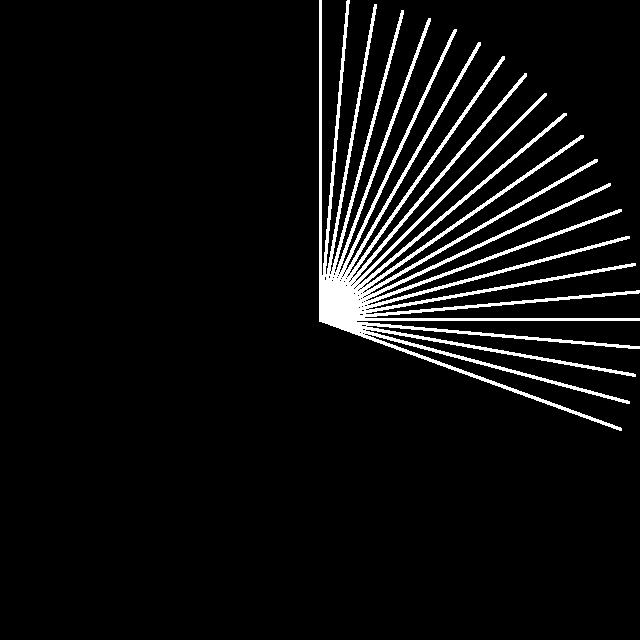
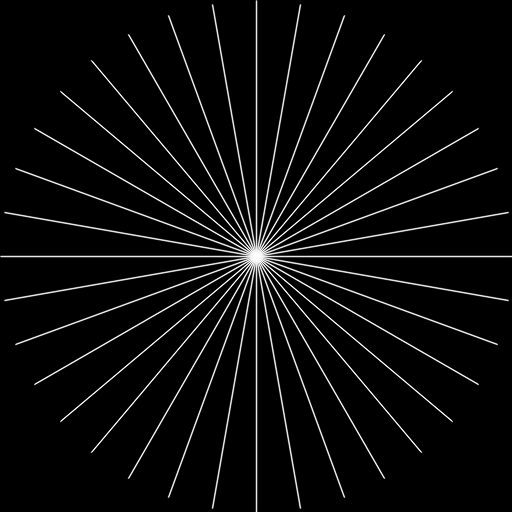
6.4 done.

diff --git a/tex/sections/materials-and-methods/subsections/no-reference-image-quality-assessment.tex b/tex/sections/materials-and-methods/subsections/no-reference-image-quality-assessment.tex
@@ -7,7 +7,9 @@ The next step is to devise a quantitative representation of sharpness for each i
   \label{fig:pipeline}
 \end{figure}
 
-First, the image undergoes a grayscale conversion with the luminance method \cite{ponti2016image} - a 
+The DFT was chosen as the basis for the method after tests with the techniques in the literature review, but it was also claimed within the SCG group that it is a simple and robust way to describe image sharpness in terms of a frequency profile. Some tests were done with the discrete wavelet transform, but the response was similar to the DFT. Similarly, after exploring the mathematical properties of the Fourier transform and also the other mathematical functions employed, i.e. the logarithm and the modulus of a complex number, the final feature vector was proven to be a distribution and could be mapped onto a probability space. This discovery brought the idea of statistics to the scope of this work, and by means of visualization techniques such as 2D and 3D plots, it was possible to notice the pattern of blurred and sharp images in the resulting distribution. The need of a statistical property capable of quantifying such pattern and allowing the method to segregate the blurred and sharp images motivated the research for techniques that deal with the shape of a distribution. The simplest tools were kurtosis, the interquartile range and the $z$-score, which were empirically proven to be accurate in the proposed setup.
+
+First, each image undergoes a grayscale conversion with the luminance method \cite{ponti2016image} - a 
 linear combination of the three channels of a RGB image, as shown in the matrix equation given by
 
 \begin{equation}
@@ -15,16 +17,9 @@ linear combination of the three channels of a RGB image, as shown in the matrix 
     I_{luminance} = 0.299R + 0.587G + 0.114B,
 \end{equation}
 
-\noindent where $I_{luminance}$ is the matrix that represents the grayscale converted image, $R$, $G$ and $B$ represent the matrices of the red, green and blue channels, respectively. Next, the resolution of each grayscale image is reduced by half, from 2560 $\times$ 1920 to 1280 $\times$ 960. This provides shorter computational times. We empirically observed that  reduction in resolution did not compromise the results. We employed a bilinear interpolation that uses the four nearest neighbors to estimate the intensity at a given location \cite{gonzalez2018digital}, described as
+\noindent where $I_{luminance}$ is the matrix that represents the grayscale converted image, $R$, $G$ and $B$ represent the matrices of the red, green and blue channels, respectively. 
 
-\begin{equation}
-\label{eqn:bilinear_interpolation}
-I_{resized}(x,y) = ax + by + cxy + d.
-\end{equation}
-
-The CLAHE algorithm is then applied to deliver a more uniform image to the Fourier Transform. This is necessary as microscopy images are influenced by illumination conditions, the focus adjustment itself and also physical properties of the transmitted or reflected light.
-
-Next, the DFT is applied to all images and the resulting spectra are analyzed. The Fourier spectrum of a two-dimensional signal such as an image is a matrix with complex coefficients and zeros on each of its four corners and carries information about frequency bands of the image, characterized as a distribution. Our approach requires a shift between the first and third quadrants, and also the second and the fourth quadrants, to the center of the matrix. The unshifted and shifted Fourier spectrum of an grayscale airplane test image are shown in Figures \ref{fig:fourier_spectrum}.(c) and \ref{fig:fourier_spectrum}.(d), respectively. 
+The CLAHE algorithm is then applied to deliver a more uniform image to the Fourier Transform. This is necessary as microscopy images are influenced by illumination conditions, the focus adjustment itself and also physical properties of the transmitted or reflected light. Next, the DFT is applied to all images and the resulting spectra are analyzed. The Fourier spectrum of a two-dimensional signal such as an image is a matrix with complex coefficients and zeros on each of its four corners and carries information about frequency bands of the image, characterized as a distribution. Our approach requires a shift between the first and third quadrants, and also the second and the fourth quadrants, to the center of the matrix. The unshifted and shifted Fourier spectrum of an grayscale airplane test image are shown in Figures \ref{fig:fourier_spectrum}.(c) and \ref{fig:fourier_spectrum}.(d), respectively. 
 
 \begin{figure}[ht]
 	\centering
@@ -37,9 +32,7 @@ Next, the DFT is applied to all images and the resulting spectra are analyzed. T
 
 The frequency information may be retrieved from the shifted Fourier spectrum by means of concentric circles drawn over it in the form of masks. Theoretically, the number of masks that may be applied to the spectra is infinite, but the discrete nature of images renders a finite number of masks. Let the matrix of DFT coefficients be graphically represented in Figure~\ref{fig:fourier_spectrum}.(e) and be mathematically denoted as a square of side $L = \max{(m,n)}$, $k = L / 2$ be the maximum radius value for circles within the square and $C = (k,k)$ be the center of the infinite set of concentric circles inscribed in the square. Circles with small radii comprise low-frequency information whereas large radii values cover high-frequency coefficients.
 
-Taking into account the pixel resolution of the input images, it makes sense to sample the information, otherwise, the computational complexity and running times of the algorithm for one image alone would be impractical. Moreover, it is also unrealistic to evaluate every area under each concentric circle to retrieve the frequency content of an image; there is also no standard discrete amount of frequency bands to be evaluated.
-
-Therefore, we drove our efforts to comprise as much information about each frequency band as possible and explored the fact that the Fourier spectrum of a real function such as an image is even, i.e. symmetric concerning its origin. Instead of the pure complex coefficients, we represent the Fourier spectrum by the magnitude of its coefficients, given by
+Taking into account the pixel resolution of the input images, it makes sense to sample the information, otherwise, the computational complexity and running times of the algorithm for one image alone would be impractical. Moreover, it is also unrealistic to evaluate every area under each concentric circle to retrieve the frequency content of an image; there is also no standard discrete amount of frequency bands to be evaluated. Therefore, we drove our efforts to comprise as much information about each frequency band as possible and explored the fact that the Fourier spectrum of a real function such as an image is even, i.e. symmetric concerning its origin. Instead of the pure complex coefficients, we represent the Fourier spectrum by the magnitude of its coefficients, given by
 
 \begin{equation}
 \label{eqn:magnitude_of_DFT}
@@ -52,7 +45,7 @@ K(m,n) =
     \right)},
 \end{equation}
 
-\noindent where $\hat{g}(m,n)$ are the complex Fourier coefficients of an image $g(x,y)$. We propose to sample the spectrum by means of radial lines as masks, i.e. white antialiased lines are drawn over a zero-valued matrix of dimensions 1280 $\times$ 960, the same dimensions of the Fourier spectrum of the reduced image, which are then element-wise multiplied by the spectrum. The lines are created from the $(x_{c},y_{c})$ center of the spectrum to points in an approximate radial position, which is calculated by
+\noindent where $\hat{g}(m,n)$ are the complex Fourier coefficients of an image $g(x,y)$. We propose to sample the spectrum by means of radial lines as masks, i.e. white antialiased lines are drawn over a zero-valued matrix with the same dimensions as the Fourier spectrum of the image, which are then element-wise multiplied by the spectrum. The lines are created from the $(x_{c},y_{c})$ center of the spectrum to points in an approximate radial position, which is calculated by
 
 \begin{equation}
 \label{eqn:points_on_radii}
@@ -71,7 +64,7 @@ P(x,y) =
 a_{j} : a_{j} = 
 \frac{j \pi}{180}
 \right\}
-&&  j = \{0,5,...,100\}.
+&&  j = \{0,10,...,360\}.
 \end{align}
 
 Equation
@@ -79,11 +72,11 @@ Equation
 floating-point ordered pair, rounded to the nearest integer value in order to represent a location in the spectrum. The
 antialiased lines are drawn with a Gaussian filtering process. After all the lines have been generated, the mask is similar to what is shown in Figure~\ref{fig:radial_masks}:
 
-\begin{figure}[ht]
+\begin{figure}[htb]
 	\centering
 	\caption{Final mask of antialised radial lines to sample the Fourier spectrum.}
 	\label{fig:radial_masks}
-	\includegraphics[scale=0.5]{images/radial_masks.png}
+	\includegraphics[scale=0.8]{images/radial_masks.png}
 	\centering
 	\fautor
 \end{figure}
@@ -98,13 +91,35 @@ T(x_{i}) = \frac{x_{i}}{\sum_{j=0}^{n-1}x_{j}}
 &&  i = \{0,1,...,n-1\},
 \end{align}
 
-\noindent where each $x_{i}$ is a value of the descriptor which will be mapped onto a probability. Note that each feature vector after the sampling process is a distribution in the scope of the Distribution Theory, i.e. a continuous linear functional defined on a space of smooth (functions with continuous derivatives up to some desired order over some domain \cite{weisstein2020smooth}) and compact supported (the functions yields zero outside of a closed and bounded set \cite{weisstein2020compact}) functions, with values in the range $[0,\infty)$. Therefore, it makes sense to apply the operator that maps it to a probability. This proposition was proved in \autoref{chapter:definitions-and-proofs}, which summarizes several definitions from Mathematical Analysis, Measure Theory and Distribution Theory required for the proof.
+\noindent where each $x_{i}$ is a value of the descriptor which will be mapped onto a probability. Note that each feature vector after the sampling process is a distribution in the scope of the Distribution Theory, i.e. a continuous linear functional defined on a space of smooth (functions with continuous derivatives up to some desired order over some domain \cite{weisstein2020smooth}) and compact supported (the functions yields zero outside of a closed and bounded set \cite{weisstein2020compact}) functions, with values in the range $[0,\infty)$. Therefore, it makes sense to apply the operator that maps it to a probability. This proposition was proved in \autoref{chapter:definitions-and-proofs}, which summarizes several definitions from Mathematical Analysis, Measure Theory and Distribution Theory required for the proof. The shape of the frequency distribution represented by each descriptor may vary according to the contents of the image, i.e. lines, circles, edges or complex textures, but it possesses a common representation, as shown in \autoref{fig:descriptor} for the 
+``1600'' image in the CSIQ database. The black line represents a sharp image (without any degree of Gaussian blur) and the blue line represents the blurriest sample of the ``1600'' subset.
 
-Information embedded in the low-frequency components of each feature vector corresponds to the Dirac delta distribution within the PSF of the microscope and should be discarded since it is equal to all images and does not resemble blur information; the removal should be done with caution so that the remaining information is enough to represent the blur profile of the image and allow the further selection by the image quality metric. An optimal threshold should be calculated for ``cropping'' the data, i.e. only a subset of it will represent the sharpness information. The threshold is chosen to maximize the difference between the maximum and the minimum among a set of kurtosis values of each feature vector.
+\begin{figure}[htb]
+	\centering
+	\caption{Common shape of the descriptors right after computation.}
+	\label{fig:descriptor}
+	\includegraphics[width=\textwidth, height=12cm, trim = 0cm 0cm 0cm 0.3cm, clip]{images/descriptor.png}
+	\centering
+	\fautor
+\end{figure}
+
+Information embedded in the low-frequency components of each feature vector corresponds to the Dirac delta distribution within the PSF of the microscope and should be discarded since it is equal to all images and does not resemble blur information; the removal should be done with caution so that the remaining information is enough to represent the blur profile of the image and allow the further selection by the image quality metric. An optimal threshold should be calculated for ``cropping'' the data, i.e. only a subset of it will represent the sharpness information. The threshold is chosen to maximize the range of a set of kurtosis values for each feature vector.
+
+Consequently, the data presented by \autoref{fig:descriptor} provides an overview of the distribution of frequencies, but it does not depict distinguishable differences between a sharp and a blurred image. However, by maintaining the range of values, selecting a subset of both sharp and blurred feature vectors (in this case, the dimensions of the original image are $512 \times 512$ and the feature vectors are of length 592) which starts at the position zero and ends at 100, and finally plotting both subsets, it is possible to notice a difference between the graphs. \autoref{fig:low_frequencies} shows that the blue line (the blurred image) contains larger values within the $[0,20]$ interval in the $x$ axis in comparison to the black line (the sharp image), providing less 
+``peakedness''  to the distribution - which translates itself as lower kurtosis values.
+
+\begin{figure}[htb]
+	\centering
+	\caption{Low-frequency profiles of a sharp (black line) and a blurry (blue line) image.}
+	\label{fig:low_frequencies}
+	\includegraphics[scale=2.2, trim = 0 0.3cm 0 0.4cm, clip]{images/low_frequencies.png}
+	\centering
+	\fautor
+\end{figure}
 
 The array of kurtosis for every crop size is computed as follows. The crop size initializes as zero and is used to compute the kurtosis of the entire set $\{x_{1},x_{2},...,x_{n}\}$ of all descriptors. The crop size is then incremented by 1, yielding the subset $\{x_{2},x_{3},...,x_{n}\}$. This process is done until the kurtosis for all crop sizes of the feature vectors is computed. Algorithm \ref{alg:kurtosis_array} summarizes the computation of kurtosis for all crop sizes:
 
-\begin{algorithm}[H]
+\begin{algorithm}[htb]
 	\caption{Kurtosis computation}
 	\label{alg:kurtosis_array}
 	\begin{algorithmic}[1]
@@ -176,4 +191,6 @@ The array of kurtosis for every crop size is computed as follows. The crop size 
 	\end{algorithmic}
 \end{algorithm}
 
-The low-frequency is discarded in each feature vector up to the optimal threshold, and the IQR measure is computed for all of them. In this work, the IQR value of the feature vector of an image corresponds to the amount of details, i.e. high-frequency content on it: the higher the IQR value, the sharper the image is. Finally, an estimate of the subset of images that is eligible for the fusion process is then obtained by the $z$-score transformation by choosing the images that locate at one or more standard deviation units away from the mean.
+The low-frequency is discarded in each feature vector up to the optimal threshold, and a final kurtosis value is computed for all of them. In this work, such final kurtosis value of each feature vector of an image corresponds to the amount of details, i.e. high-frequency content on it: the higher the kurtosis value, the sharper the image is. Finally, an estimate of the subset of images that is eligible for the fusion process is then obtained by the $z$-score transformation by choosing the images that locate at one or more standard deviation units away from the mean.
+
+% IQR measure is computed for all of them. In this work, the IQR value of the feature vector of an image corresponds to the amount of details, i.e. high-frequency content on it: the higher the IQR value, the sharper the image is. Finally, an estimate of the subset of images that is eligible for the fusion process is then obtained by the $z$-score transformation by choosing the images that locate at one or more standard deviation units away from the mean.

diff --git a/tex/sections/materials-and-methods/subsections/datasets.tex b/tex/sections/materials-and-methods/subsections/datasets.tex
@@ -13,72 +13,80 @@ A shared feature among the species \textit{Callisia repens}, \textit{Tradescanti
 	\fautor
 \end{figure}
 
+\subsection{Acquisition and Usage Protocols}
+
 We will refer to the datasets as \textit{Callisia}, \textit{Tradescantia} and \textit{Cthenante} for notation simplicity. The \textit{Callisia} and \textit{Tradescantia} datasets were acquired with the z-stacking method in the SteREO Discovery.v20 microscope, whereas the \textit{Cthenante} dataset was acquired with the AxioLab A1 microscope. The workstation was connected to the microscopes by means of the ZEISS Axiovision version 4.8 software package. The z-stacks were manually built, i.e. the axial location of the objective was manually changed.
 
-The SteREO Discovery.v20 microscope allows a precise measurement of the objective height, and the slices were acquired with a distance of 10 $\mu$m between each other - the maximum manually achievable distance. On the other hand, the absence of such micrometer precision measurement in the AxioLab A1 microscope did not hinder the construction of the z-stacks. For both microscopes, the acquisition started with the objective height above the focal plane, which provided a completely blurred image. Then, the objective was axially lowered progressively, and at each step, an image was taken; this process was done until the objective height was below the focal plane and the images were blurred again.
+The SteREO Discovery.v20 microscope allows a precise measurement of the objective height, and the slices were acquired with a distance of 10 $\mu$m between each other - the maximum manually achievable distance. For both microscopes, the acquisition started with the objective height above the focal plane and, therefore, a completely blurred image. Then, the objective was progressively lowered in the $z$ axis, and at each step, an image was taken; this process was done until the objective height was below the focal plane and the images were blurred again.
 
-The z-stacks needed to be registered for image fusion, but this can only be done after the eligible images in each set were chosen. Therefore, after our IQA method was applied, we aligned each stack with the TrakEM2 package, which is an ImageJ-based tool for processing and analyzing microscopy images. It includes methods for lens distortion correction, stitching, serial section alignment, correction of section thickness, and contrast adjustment \cite{saalfeld2019computational}. TrakEM2 uses  a particular combination of methods. The feature extraction was done with a custom implementation of the \sigla{SIFT}{Scale Invariant Feature Transform}, together with a custom extension of the \sigla{RANSAC}{Random Sample Consensus} method for parameter estimation and the geometric consensus filtering process with the expected transformation model and a maximal expected error as parameters \cite{saalfeld2019computational}. 
+The z-stacks were registered for image fusion after the eligible images in each set were chosen. Therefore, after the IQA method was applied, each set of eligible images was aligned with the TrakEM2 package, an ImageJ-based tool for processing and analyzing microscopy images. It includes methods for lens distortion correction, stitching, serial section alignment, correction of section thickness, and contrast adjustment \cite{saalfeld2019computational}. TrakEM2 uses  a particular combination of methods. The feature extraction was done with a custom implementation of the \sigla{SIFT}{Scale Invariant Feature Transform}, together with a custom extension of the \sigla{RANSAC}{Random Sample Consensus} method for parameter estimation and the geometric consensus filtering process with the expected transformation model and a maximal expected error as parameters \cite{saalfeld2019computational}. 
 
-In order to validate the results according to a subjective quality index, each image was labeled as sharp or blurred, which translates as \emph{eligible} and \emph{negligible} for the fusion process, respectively. The axial nature of the acquisition allowed for a contiguous set of eligible images in each dataset. The relevant properties of the datasets are summarized in \autoref{tab:dataset_info}. 
+Primarily, a subjective quality index based on the Mean Opinion Score (MOS) was built in order to validate the results. The mean opinion score is the average of values on a predefined scale that an observer assigns to his opinion about the performance of a system (in this case, the imaging system) across a sample of observers \cite{liu2019comprehensive}. Practically, it consists of integer numbers in the interval $[1,5]$ where 1 is the worst score and 5 is the best. With the output of three people - two microscopy experts and one from a non-microscopy field - a subjective index was created. Most of the images were classified as 1 and the maximum score was 3. The images were then labeled as 3 - \emph{eligible} and 1 or 2 - \emph{negligible} for the fusion process, respectively. The axial nature of the acquisition allowed for a contiguous set of eligible images in each dataset. \autoref{tab:dataset_info} presents some relevant properties of each dataset.
 
 \begin{table}[ht]
     \centering
     \caption{Information about the proposed datasets.}
     \label{tab:dataset_info}
-    \begin{tabular}{lcccc}
+    \begin{tabular}{lccc}
         \toprule
-        \textbf{Dataset} & \textbf{Images} & \textbf{Magnification} & \textbf{Sharp} & \textbf{Sequence}\\
+        \textbf{Dataset} & \textbf{\textit{Callisia}} &
+        \textbf{\textit{Tradescantia}} &
+        \textbf{\textit{Cthenante}}\\
         \midrule
-        \textit{Callisia} & 56 & 50$\times$ & 9 & 41 - 49\\
-        \textit{Tradescantia} & 66 & 200$\times$ & 2 & 50 - 51\\
-        \textit{Cthenante} & 55 & 100$\times$ & 16 & 30 - 45\\
+        \textit{Magnification} & 50x & 200x & 100x\\
+        \textit{Step} & 10$\mu$m & 10$\mu$m & 4$\mu$m\\
+        \textit{Number of images} & 56 & 66 & 55\\
+        \textit{Eligible} & 9 & 2 & 16\\
+        \textit{Sharp sequence} & 41 - 49 & 50 - 51 & 30 - 45\\
         \bottomrule
     \end{tabular}
     \centering
     \fautor
 \end{table}
 
+In order to use the proposed datasets for evaluation of new methods, it is necessary to take into account that several images are totally blurred, and an image quality assessment algorithm should yield a low metric number for such images. As the $z$ position approaches the optimal focal plane, the metric may start to produce better values. The images are named with the step of the $z$-stack starting at 1, so that the eligible images are easily located. The metric should yield the highest quality values are among the range of eligible images, depicted as 
+``Sharp sequence'' in \autoref{tab:dataset_info}. When the axial position is not exceeds the limits of the sharp sequence, the metric values should decay. The datasets are capable of assessing the monotonicity, accuracy and precision of image quality metrics.
+
 \section{Benchmark datasets}
 
 Benchmark datasets are fundamental in computer vision and image processing research in order to track the performance, accuracy and efficiency of new methods and algorithms. The image quality assessment was also evaluated against literature methods with the well-known Computational and Subjective Image Quality database (CSIQ) image quality assessment database \cite{larson2010most} and the KonIQ database, the largest image quality assessment database to date \cite{hosu2020koniq}. 
 
-The CSIQ database contains 30 original images of dimensions $512 \times 512$. Each image is distorted in four to five different levels separately by JPEG and JPEG-2000 compression, Gaussian blurring, global contrast decrements and additive pink Gaussian noise. The Gaussian blur subset with 150 images was employed in the proposed analysis. The dataset also contains 5000 subjective rates done by 35 different observers, by means of a Mean Opinion Score (MOS) - integer numbers in the interval $[1,5]$ where 1 is the worst score and 5 is the best. \autoref{fig:csiq_example} shows two samples of the CSIQ database.
+The CSIQ database contains 30 original images of dimensions $512 \times 512$. Each image is distorted in four to five different levels separately by JPEG and JPEG-2000 compression, Gaussian blurring, global contrast decrements and additive pink Gaussian noise. The Gaussian blur subset with 150 images was employed in the proposed analysis. The dataset also contains 5000 subjective rates done by 35 different observers, By means of a MOS index. 
 
-\begin{figure}[ht]
+The KonIQ database was built in order to evaluate the performance of a deep learning method for blind image quality assessment. It consists of 10073 images of dimensions $1024 \times 768$ with different labels for brightness, contrast, colorfulness and sharpness. The labels were generated from 1.2 million MOS rating of 1459 observers. One dissimilar feature of KonIQ when compared to CSIQ is that the quality assessment should be done among different scenes with different levels of degradation. \autoref{fig:csiq_example} shows two samples of the CSIQ database, and \autoref{fig:koniq_example} presents both blurred and sharp samples from the KonIQ image.
+
+\begin{figure}[htb]
     \centering
     \caption{Samples from the CSIQ database: blurred image (a) and sharp image (b).}
     \label{fig:csiq_example}
     \begin{subfigure}[t]{0.45\textwidth}
         \centering
-        \includegraphics[scale=0.3]{images/csiq_blurred.png}
+        \includegraphics[height=5cm]{images/csiq_blurred.png}
         \caption{}
     \end{subfigure}%
     ~ 
     \begin{subfigure}[t]{0.5\textwidth}
         \centering
-        \includegraphics[scale=0.3]{images/csiq_sharp.png}
+        \includegraphics[height=5cm]{images/csiq_sharp.png}
         \caption{}
     \end{subfigure}
     \centering
     \fdireta{larson2010most}
 \end{figure}
 
-
-The KonIQ database was built in order to evaluate the performance of a deep learning method for blind image quality assessment. It consists of 10073 images of dimensions $1024 \times 768$ with different labels for brightness, contrast, colorfulness and sharpness. The labels were generated from 1.2 million MOS rating of 1459 observers. One dissimilar feature of KonIQ when compared to CSIQ is that the quality assessment should be done among different scenes with different levels of degradation. \autoref{fig:koniq_example} presents both blurred and sharp samples from the KonIQ image.
-
-\begin{figure}[ht]
+\begin{figure}[htb]
     \centering
     \caption{Samples from the KonIQ database: blurred image (a) and sharp image (b).}
     \label{fig:koniq_example}
     \begin{subfigure}[t]{0.45\textwidth}
         \centering
-        \includegraphics[height=5cm]{images/koniq-blurred.jpg}
+        \includegraphics[height=4cm]{images/koniq-blurred.jpg}
         \caption{}
     \end{subfigure}%
     ~ 
     \begin{subfigure}[t]{0.45\textwidth}
         \centering
-        \includegraphics[height=5cm]{images/koniq-sharp.jpg}
+        \includegraphics[height=4cm]{images/koniq-sharp.jpg}
         \caption{}
     \end{subfigure}
     \centering

diff --git a/tex/sections/materials-and-methods/main.tex b/tex/sections/materials-and-methods/main.tex
@@ -1,6 +1,6 @@
 In \autoref{chapter:related-work}, the literature review showed that both no-reference image quality analysis and image fusion were addressed by many known techniques such as multiresolution analysis and principal component analysis; on the other hand, applications still evolve as new strategies such as machine learning are presented. The idea that motivated the use of the Fourier Transform as the basis for an IQA method is that it is a fast, robust and reliable analysis tool and could produce relevant results if properly explored. Similarly, the image fusion process was developed by exploring many state-of-the-art fusion applications and addressing both computational requirements (both hardware and software) and computational performance, since the method is built to work on normal optical microscope workstations instead of large clusters. As a result, we studied the capabilities of the Laplacian of Gaussian as the basis for our image fusion algorithm. 
 
-This chapter presents all the details about our no-reference image quality assessment method and our multi-focus image fusion method, as well as relevant information about the proposed datasets, including acquisition details and issues. We also show how the methods relate to each other since it also requires the human knowledge to select the images for registration and posterior fusion, similar to most of the z-stacking systems on microscopy software packages.
+This chapter presents all the details about our no-reference image quality assessment method and our multi-focus image fusion method, as well as relevant information about the proposed datasets, including acquisition details. We also show how the methods relate to each other since it also requires the human knowledge to select the images for registration and posterior fusion, similar to most of the z-stacking systems on microscopy software packages.
 
 \section{Overview}
 \input{tex/sections/materials-and-methods/subsections/overview}
